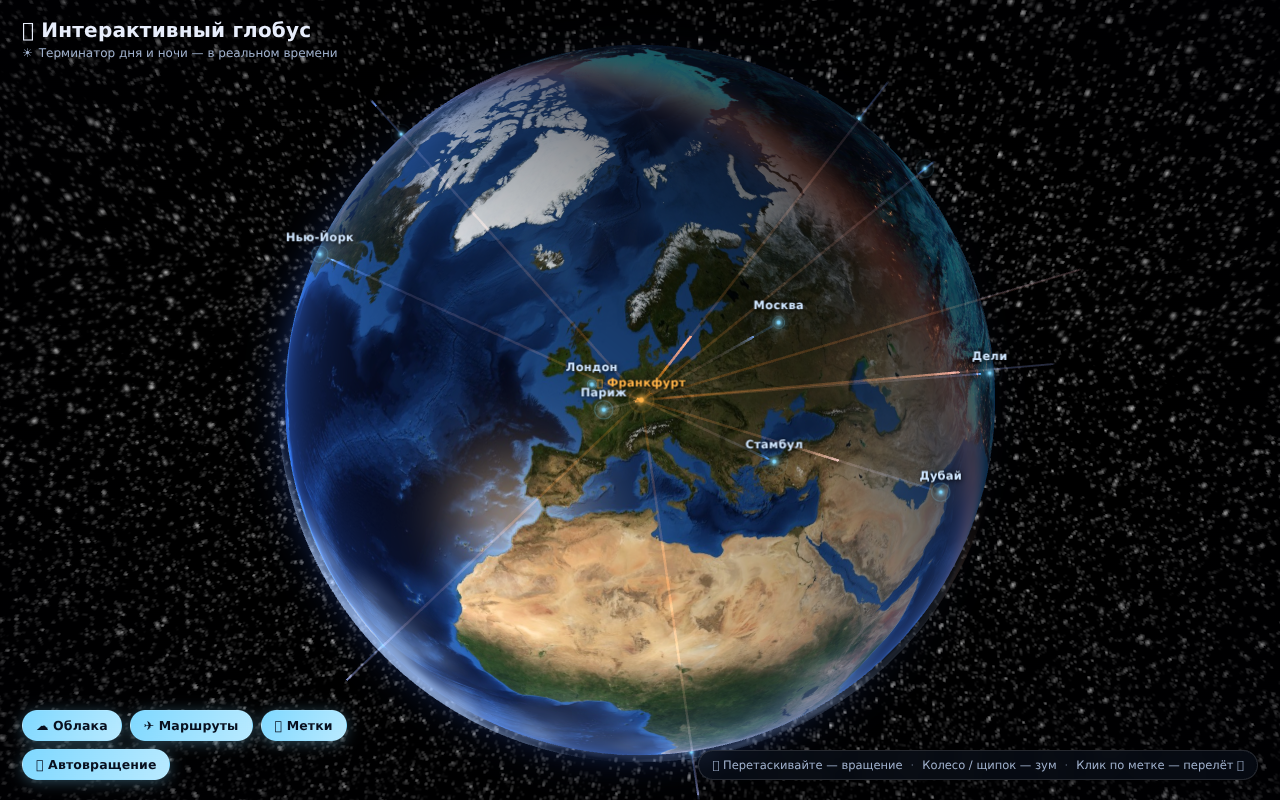
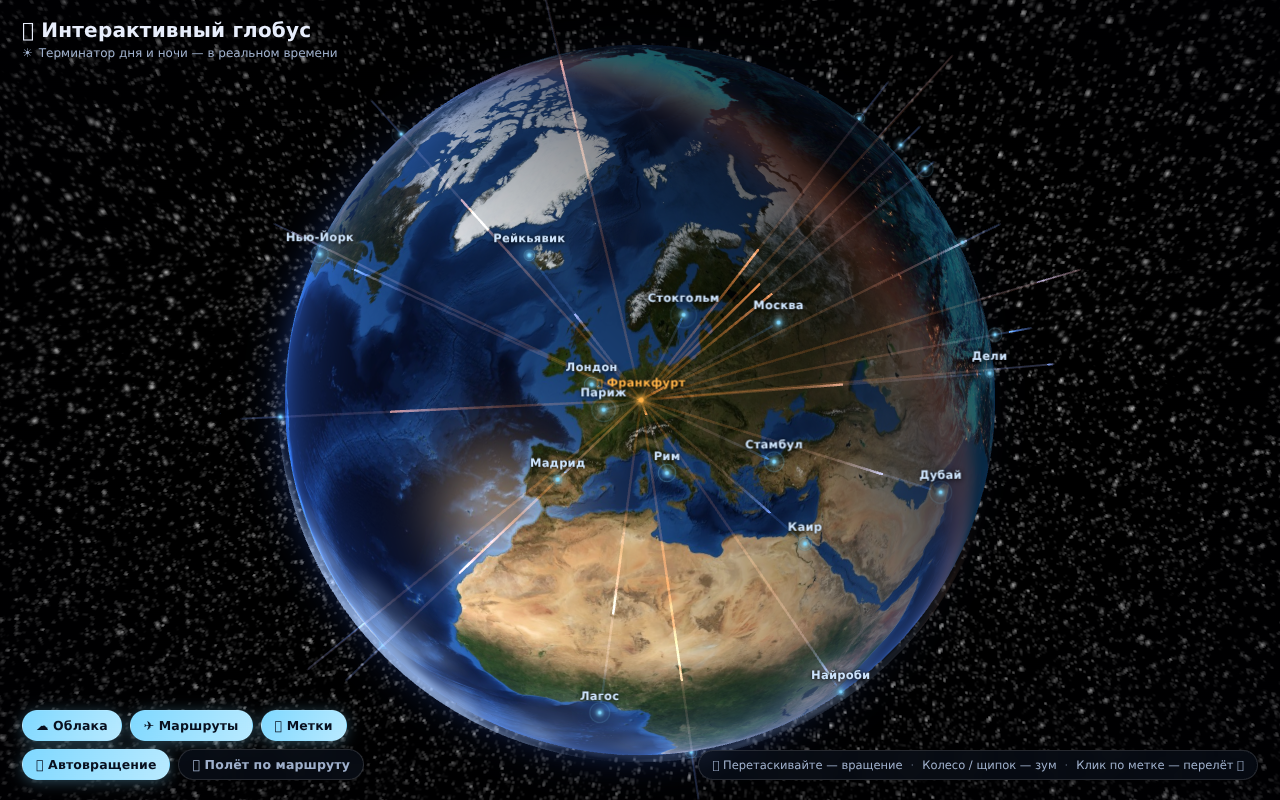
🛫 30 городов + режим «Полёт по маршруту»: кругосветный тур с HUD, тесты

diff --git a/js/main.js b/js/main.js
@@ -14,21 +14,41 @@ import { OrbitControls } from 'three/addons/controls/OrbitControls.js';
 const HOME = 'Франкфурт';
 
 const CITIES = [
+  // Европа
   { name: 'Франкфурт',      country: 'Германия',        lat: 50.11,  lon: 8.68,   tz: 'Europe/Berlin',      popM: 0.8 },
   { name: 'Лондон',         country: 'Великобритания',  lat: 51.51,  lon: -0.13,  tz: 'Europe/London',      popM: 8.9 },
   { name: 'Париж',          country: 'Франция',         lat: 48.86,  lon: 2.35,   tz: 'Europe/Paris',       popM: 2.1 },
+  { name: 'Мадрид',         country: 'Испания',         lat: 40.42,  lon: -3.70,  tz: 'Europe/Madrid',      popM: 3.3 },
+  { name: 'Рим',            country: 'Италия',          lat: 41.89,  lon: 12.51,  tz: 'Europe/Rome',        popM: 2.8 },
+  { name: 'Стокгольм',      country: 'Швеция',          lat: 59.33,  lon: 18.06,  tz: 'Europe/Stockholm',   popM: 1.0 },
+  { name: 'Рейкьявик',      country: 'Исландия',        lat: 64.15,  lon: -21.94, tz: 'Atlantic/Reykjavik', popM: 0.14 },
   { name: 'Стамбул',        country: 'Турция',          lat: 41.01,  lon: 28.98,  tz: 'Europe/Istanbul',    popM: 15.6 },
   { name: 'Москва',         country: 'Россия',          lat: 55.76,  lon: 37.62,  tz: 'Europe/Moscow',      popM: 13.1 },
-  { name: 'Дубай',          country: 'ОАЭ',             lat: 25.20,  lon: 55.27,  tz: 'Asia/Dubai',         popM: 3.6 },
-  { name: 'Дели',           country: 'Индия',           lat: 28.61,  lon: 77.21,  tz: 'Asia/Kolkata',       popM: 32.9 },
-  { name: 'Сингапур',       country: 'Сингапур',        lat: 1.35,   lon: 103.82, tz: 'Asia/Singapore',     popM: 6.0 },
-  { name: 'Пекин',          country: 'Китай',           lat: 39.90,  lon: 116.40, tz: 'Asia/Shanghai',      popM: 21.9 },
-  { name: 'Токио',          country: 'Япония',          lat: 35.68,  lon: 139.69, tz: 'Asia/Tokyo',         popM: 13.9 },
-  { name: 'Сидней',         country: 'Австралия',       lat: -33.87, lon: 151.21, tz: 'Australia/Sydney',   popM: 5.3 },
+  // Африка и Ближний Восток
+  { name: 'Каир',           country: 'Египет',          lat: 30.04,  lon: 31.24,  tz: 'Africa/Cairo',       popM: 10.1 },
+  { name: 'Лагос',          country: 'Нигерия',         lat: 6.52,   lon: 3.38,   tz: 'Africa/Lagos',       popM: 15.4 },
+  { name: 'Найроби',        country: 'Кения',           lat: -1.29,  lon: 36.82,  tz: 'Africa/Nairobi',     popM: 4.4 },
   { name: 'Кейптаун',       country: 'ЮАР',             lat: -33.92, lon: 18.42,  tz: 'Africa/Johannesburg',popM: 4.8 },
-  { name: 'Рио-де-Жанейро', country: 'Бразилия',        lat: -22.91, lon: -43.17, tz: 'America/Sao_Paulo',  popM: 6.7 },
-  { name: 'Нью-Йорк',       country: 'США',             lat: 40.71,  lon: -74.01, tz: 'America/New_York',   popM: 8.8 },
+  { name: 'Дубай',          country: 'ОАЭ',             lat: 25.20,  lon: 55.27,  tz: 'Asia/Dubai',         popM: 3.6 },
+  // Азия
+  { name: 'Дели',           country: 'Индия',           lat: 28.61,  lon: 77.21,  tz: 'Asia/Kolkata',       popM: 32.9 },
+  { name: 'Бангкок',        country: 'Таиланд',         lat: 13.76,  lon: 100.50, tz: 'Asia/Bangkok',       popM: 8.3 },
+  { name: 'Сингапур',       country: 'Сингапур',        lat: 1.35,   lon: 103.82, tz: 'Asia/Singapore',     popM: 6.0 },
+  { name: 'Гонконг',        country: 'Китай',           lat: 22.32,  lon: 114.17, tz: 'Asia/Hong_Kong',     popM: 7.5 },
+  { name: 'Пекин',          country: 'Китай',           lat: 39.90,  lon: 116.40, tz: 'Asia/Shanghai',      popM: 21.9 },
+  { name: 'Сеул',           country: 'Южная Корея',     lat: 37.57,  lon: 126.98, tz: 'Asia/Seoul',         popM: 9.7 },
+  { name: 'Токио',          country: 'Япония',          lat: 35.68,  lon: 139.69, tz: 'Asia/Tokyo',         popM: 13.9 },
+  // Океания и Тихий океан
+  { name: 'Сидней',         country: 'Австралия',       lat: -33.87, lon: 151.21, tz: 'Australia/Sydney',   popM: 5.3 },
+  { name: 'Окленд',         country: 'Новая Зеландия',  lat: -36.85, lon: 174.76, tz: 'Pacific/Auckland',   popM: 1.7 },
+  { name: 'Гонолулу',       country: 'США',             lat: 21.31,  lon: -157.86,tz: 'Pacific/Honolulu',   popM: 1.0 },
+  // Америки
   { name: 'Лос-Анджелес',   country: 'США',             lat: 34.05,  lon: -118.24,tz: 'America/Los_Angeles',popM: 3.9 },
+  { name: 'Мехико',         country: 'Мексика',         lat: 19.43,  lon: -99.13, tz: 'America/Mexico_City',popM: 9.2 },
+  { name: 'Нью-Йорк',       country: 'США',             lat: 40.71,  lon: -74.01, tz: 'America/New_York',   popM: 8.8 },
+  { name: 'Богота',         country: 'Колумбия',        lat: 4.71,   lon: -74.07, tz: 'America/Bogota',     popM: 7.9 },
+  { name: 'Рио-де-Жанейро', country: 'Бразилия',        lat: -22.91, lon: -43.17, tz: 'America/Sao_Paulo',  popM: 6.7 },
+  { name: 'Буэнос-Айрес',   country: 'Аргентина',       lat: -34.60, lon: -58.38, tz: 'America/Argentina/Buenos_Aires', popM: 15.2 },
 ];
 
 const HOME_CITY = CITIES[0];
@@ -75,6 +95,7 @@ function subsolarPoint(date = new Date()) {
 
 const easeInOutCubic = t => t < 0.5 ? 4 * t * t * t : 1 - Math.pow(-2 * t + 2, 3) / 2;
 const easeOutCubic = t => 1 - Math.pow(1 - t, 3);
+const easeInOutSine = t => -(Math.cos(Math.PI * t) - 1) / 2;
 
 function fmtPop(m) { return m.toFixed(1).replace('.', ',').replace(',0', '') + ' млн'; }
 
@@ -189,16 +210,34 @@ function makeSunTexture(size = 256) {
 /* ---------- Твины ---------- */
 
 const tweens = [];
-function addTween(dur, ease, onUpdate, onEnd) {
-  tweens.push({ t0: performance.now(), dur, ease, onUpdate, onEnd });
+function addTween(dur, ease, onUpdate, onEnd, tag = 'fly') {
+  const tw = { t0: performance.now(), dur, ease, onUpdate, onEnd, tag, cancelled: false };
+  tweens.push(tw);
+  return tw;
+}
+function cancelTweens(tag) {
+  tweens.forEach(tw => { if (!tag || tw.tag === tag) tw.cancelled = true; });
 }
 function updateTweens(now) {
   for (let i = tweens.length - 1; i >= 0; i--) {
     const tw = tweens[i];
+    if (tw.cancelled) { tweens.splice(i, 1); continue; }
     let k = Math.min(1, (now - tw.t0) / tw.dur);
     tw.onUpdate(tw.ease(k));
     if (k === 1) { tweens.splice(i, 1); tw.onEnd && tw.onEnd(); }
   }
+}
+
+/** Сферическая интерполяция двух направлениями (unit-векторы) */
+function slerpDir(a, b, t) {
+  const ax = a.clone().normalize();
+  const bx = b.clone().normalize();
+  const omega = ax.angleTo(bx);
+  if (omega < 1e-6) return ax;
+  const so = Math.sin(omega);
+  return ax.multiplyScalar(Math.sin((1 - t) * omega) / so)
+    .add(bx.multiplyScalar(Math.sin(t * omega) / so))
+    .normalize();
 }
 
 /* ---------- Инициализация сцены ---------- */
@@ -612,6 +651,163 @@ function applyToggles() {
 [tgClouds, tgArcs, tgLabels].forEach(t => t.addEventListener('change', applyToggles));
 applyToggles();
 
+/* ---------- Режим «Полёт по маршруту» 🛫 ---------- */
+
+const tgTour = document.getElementById('tg-tour');
+const hud = document.getElementById('tour-hud');
+const tourLegEl = document.getElementById('tour-leg');
+const tourCountEl = document.getElementById('tour-count');
+const tourInfoEl = document.getElementById('tour-info');
+const tourFillEl = document.getElementById('tour-fill');
+
+let tourOn = false;
+let tourFocus = null; // индекс города, к которому летим (подсветка маркера)
+
+// «комета» — светящаяся точка, летящая по дуге под камерой
+const comet = new THREE.Sprite(new THREE.SpriteMaterial({
+  map: dotTexture, color: 0xffd9a0, transparent: true, depthWrite: false,
+}));
+comet.scale.setScalar(0.075);
+comet.visible = false;
+comet.renderOrder = 3;
+scene.add(comet);
+
+// подсвеченная дуга текущего перелёта
+const tourArc = new THREE.Mesh(
+  new THREE.BufferGeometry(),
+  new THREE.MeshBasicMaterial({
+    color: 0xffc98b, transparent: true, opacity: 0.55,
+    blending: THREE.AdditiveBlending, depthWrite: false,
+  })
+);
+tourArc.visible = false;
+tourArc.renderOrder = 2;
+scene.add(tourArc);
+
+/** Маршрут: «жадный» ближайший сосед от дома с возвратом домой */
+function buildRoute() {
+  const route = [0];
+  const remaining = new Set(markerGroups.map((_, i) => i).slice(1));
+  let cur = 0;
+  while (remaining.size) {
+    let best = -1, bestD = Infinity;
+    for (const j of remaining) {
+      const d = markerGroups[cur].pos.angleTo(markerGroups[j].pos);
+      if (d < bestD) { bestD = d; best = j; }
+    }
+    route.push(best);
+    remaining.delete(best);
+    cur = best;
+  }
+  route.push(0); // замыкаем кругосветку
+  return route;
+}
+
+function cityInfoLine(c) {
+  return `${c.name} · ${c.country} · 🕐 ${localTime(c.tz)} · 👥 ${fmtPop(c.popM)}`;
+}
+
+/** Один перелёт маршрута: камера летит по дуге, глядя чуть вперёд */
+function runTourLeg(route, leg) {
+  const total = route.length - 1;
+  const aIdx = route[leg], bIdx = route[leg + 1];
+  const A = markerGroups[aIdx].pos.clone().normalize();
+  const B = markerGroups[bIdx].pos.clone().normalize();
+  const omega = A.angleTo(B);
+  const dur = THREE.MathUtils.clamp(1100 + omega * 1000, 1500, 4200);
+  const startR = camera.position.length();
+  const cruise = 1.32;
+  const bump = 0.42 * Math.min(1, omega / (Math.PI * 0.8));
+  const arcAlt = 0.05 + 0.24 * (omega / Math.PI);
+
+  tourFocus = bIdx;
+  tourLegEl.textContent = `${CITIES[aIdx].name} ➜ ${CITIES[bIdx].name}`;
+  tourCountEl.textContent = `${leg + 1}/${total}`;
+  tourInfoEl.textContent = cityInfoLine(CITIES[bIdx]);
+
+  tourArc.geometry.dispose();
+  tourArc.geometry = new THREE.TubeGeometry(
+    new THREE.CatmullRomCurve3(greatCirclePoints(A, B)), 96, 0.004, 6
+  );
+  tourArc.visible = true;
+  comet.visible = true;
+
+  addTween(dur, easeInOutSine, k => {
+    const dir = slerpDir(A, B, k);
+    const approach = THREE.MathUtils.smoothstep(k, 0, 0.35);
+    const r = startR + (cruise - startR) * approach + bump * Math.sin(Math.PI * k);
+    camera.position.copy(dir).multiplyScalar(r);
+    camera.lookAt(slerpDir(A, B, Math.min(1, k + 0.06)));
+    comet.position.copy(dir).multiplyScalar(1.005 + arcAlt * Math.sin(Math.PI * k));
+    tourFillEl.style.width = (k * 100).toFixed(1) + '%';
+  }, () => {
+    // пауза над городом — показать карточку
+    const c = CITIES[bIdx];
+    tourInfoEl.textContent = cityInfoLine(c);
+    addTween(1600, t => t, () => {
+      camera.lookAt(B); // держим взгляд на городе
+      tourInfoEl.textContent = cityInfoLine(c); // обновляем время
+    }, () => {
+      if (leg + 1 >= total) stopTour(true);
+      else runTourLeg(route, leg + 1);
+    }, 'tour');
+  }, 'tour');
+}
+
+function startTour() {
+  if (tourOn) return;
+  cancelTweens(); // прерываем интро/полёт к городу, если были
+  tourOn = true;
+  flying = true;
+  clearTimeout(idleTimer);
+  controls.enabled = false;
+  controls.autoRotate = false;
+  setHovered(null, 0, 0);
+
+  const route = buildRoute();
+  hud.classList.add('show');
+  tgTour.checked = true;
+  tourFillEl.style.width = '0%';
+  tourFocus = 0;
+
+  // стартовая пауза над домом
+  const homeDirV = markerGroups[0].pos.clone().normalize();
+  const r0 = camera.position.length();
+  tourLegEl.textContent = `Старт: ${HOME}`;
+  tourCountEl.textContent = `1/${route.length - 1}`;
+  tourInfoEl.textContent = cityInfoLine(CITIES[0]);
+  comet.position.copy(homeDirV).multiplyScalar(1.03);
+  comet.visible = true;
+
+  addTween(900, easeOutCubic, k => {
+    camera.position.copy(homeDirV).multiplyScalar(r0 + (1.9 - r0) * k);
+    camera.lookAt(homeDirV);
+  }, () => runTourLeg(route, 0), 'tour');
+}
+
+function stopTour(finished = false) {
+  if (!tourOn) return;
+  tourOn = false;
+  flying = false;
+  tourFocus = null;
+  cancelTweens('tour');
+  tourArc.visible = false;
+  comet.visible = false;
+  hud.classList.remove('show');
+  tgTour.checked = false;
+  controls.enabled = true;
+  if (finished) {
+    const dir = camera.position.clone().normalize();
+    flyToDir(dir, 3.1, 1200, () => scheduleAutoRotate());
+  } else {
+    scheduleAutoRotate();
+  }
+}
+
+tgTour.addEventListener('change', () => { if (tgTour.checked) startTour(); else stopTour(false); });
+document.addEventListener('keydown', e => { if (e.key === 'Escape' && tourOn) stopTour(false); });
+renderer.domElement.addEventListener('pointerdown', () => { if (tourOn) stopTour(false); });
+
 /* ---------- Наведение и клики по маркерам ---------- */
 
 const raycaster = new THREE.Raycaster();
@@ -715,11 +911,12 @@ function animate() {
   clouds.rotation.y = t * 0.0045;
 
   // пульсация маркеров
-  markerGroups.forEach(m => {
+  markerGroups.forEach((m, i) => {
     const p = (t * 0.35 + m.ringOffset) % 1;
     m.ring.scale.setScalar(0.02 + 0.065 * p);
     m.ring.material.opacity = (1 - p) * 0.55 * (m.dot.visible ? 1 : 0);
-    if (hovered !== null && CITIES[hovered] === m.city) {
+    const emphasized = (hovered !== null && CITIES[hovered] === m.city) || tourFocus === i;
+    if (emphasized) {
       m.dot.scale.setScalar(m.isHome ? 0.078 : 0.064);
     } else {
       m.dot.scale.setScalar(m.isHome ? 0.06 : 0.048);

diff --git a/css/style.css b/css/style.css
@@ -88,6 +88,42 @@ html, body {
   border-color: transparent;
   box-shadow: 0 2px 14px rgba(127, 216, 255, 0.35);
 }
+.toggle.tour input:checked + span {
+  background: linear-gradient(120deg, var(--accent), #ffd9a0);
+  box-shadow: 0 2px 14px rgba(255, 179, 71, 0.45);
+}
+
+/* ===== HUD полёта по маршруту ===== */
+#tour-hud {
+  position: fixed; top: 18px; left: 50%; transform: translateX(-50%);
+  z-index: 8; width: min(380px, 86vw);
+  padding: 12px 16px 10px; border-radius: 14px;
+  background: rgba(10, 16, 32, 0.78);
+  border: 1px solid rgba(255, 179, 71, 0.25);
+  backdrop-filter: blur(12px); -webkit-backdrop-filter: blur(12px);
+  box-shadow: 0 10px 36px rgba(0, 0, 0, 0.55);
+  display: none;
+}
+#tour-hud.show { display: block; }
+
+.tour-top { display: flex; align-items: center; justify-content: space-between; gap: 10px; }
+.tour-badge {
+  font-size: 10.5px; font-weight: 700; letter-spacing: 0.09em; text-transform: uppercase;
+  color: var(--accent);
+}
+.tour-count {
+  font-size: 11px; font-weight: 700; color: #08101f;
+  background: var(--accent); border-radius: 999px; padding: 2px 9px;
+  font-variant-numeric: tabular-nums;
+}
+.tour-leg {
+  margin-top: 6px; font-size: 15.5px; font-weight: 700;
+  white-space: nowrap; overflow: hidden; text-overflow: ellipsis;
+}
+.tour-bar { margin-top: 8px; height: 4px; border-radius: 2px; background: rgba(255,255,255,0.1); overflow: hidden; }
+#tour-fill { width: 0%; height: 100%; background: linear-gradient(90deg, var(--accent), #ffd9a0); border-radius: 2px; }
+.tour-info { margin-top: 7px; font-size: 12px; color: var(--text-dim); white-space: nowrap; overflow: hidden; text-overflow: ellipsis; }
+.tour-exit { margin-top: 6px; font-size: 10.5px; color: var(--text-dim); opacity: 0.7; }
 
 /* ===== Подсказка снизу ===== */
 #hint {
@@ -150,4 +186,5 @@ html, body {
   #hint { display: none; }
   #panel { bottom: 14px; left: 14px; gap: 6px; }
   .toggle span { padding: 6px 11px; font-size: 11.5px; }
+  #tour-hud { top: 64px; }
 }

diff --git a/index.html b/index.html
@@ -42,6 +42,7 @@
     <label class="toggle"><input type="checkbox" id="tg-arcs" checked><span>✈ Маршруты</span></label>
     <label class="toggle"><input type="checkbox" id="tg-labels" checked><span>📍 Метки</span></label>
     <label class="toggle"><input type="checkbox" id="tg-rotate" checked><span>🔄 Автовращение</span></label>
+    <label class="toggle tour"><input type="checkbox" id="tg-tour"><span>🛫 Полёт по маршруту</span></label>
   </nav>
 
   <!-- Подсказка -->
@@ -55,6 +56,18 @@
 
   <!-- Метки городов (HTML-оверлей) -->
   <div id="labels"></div>
+
+  <!-- HUD режима полёта -->
+  <div id="tour-hud">
+    <div class="tour-top">
+      <span class="tour-badge">🛫 Кругосветный маршрут</span>
+      <span class="tour-count" id="tour-count">1/30</span>
+    </div>
+    <div class="tour-leg" id="tour-leg"></div>
+    <div class="tour-bar"><div id="tour-fill"></div></div>
+    <div class="tour-info" id="tour-info"></div>
+    <div class="tour-exit">Esc или клик — выход</div>
+  </div>
 
   <!-- Всплывающая карточка города -->
   <div id="tooltip">
